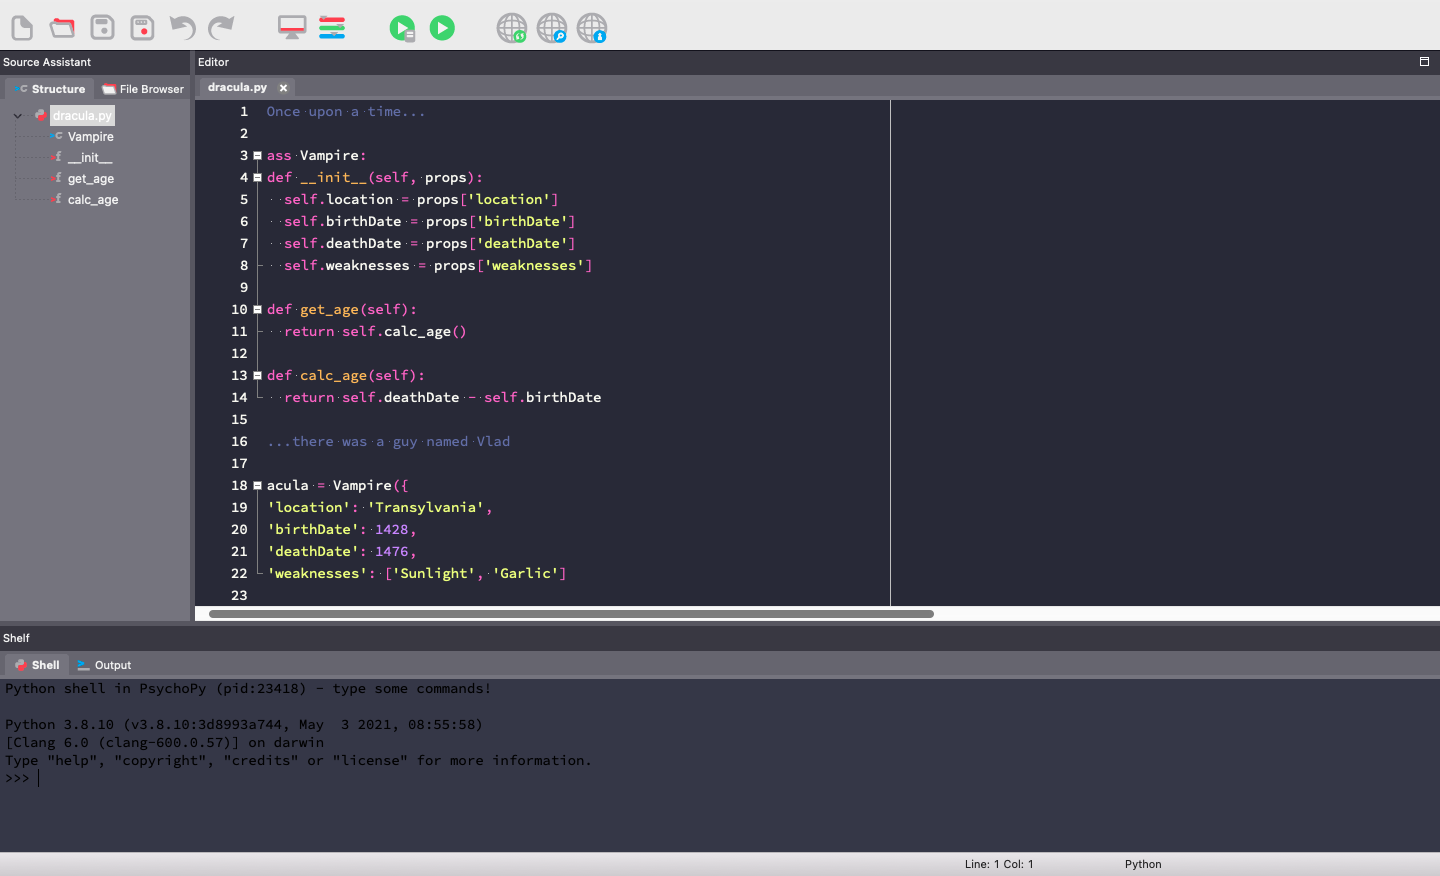
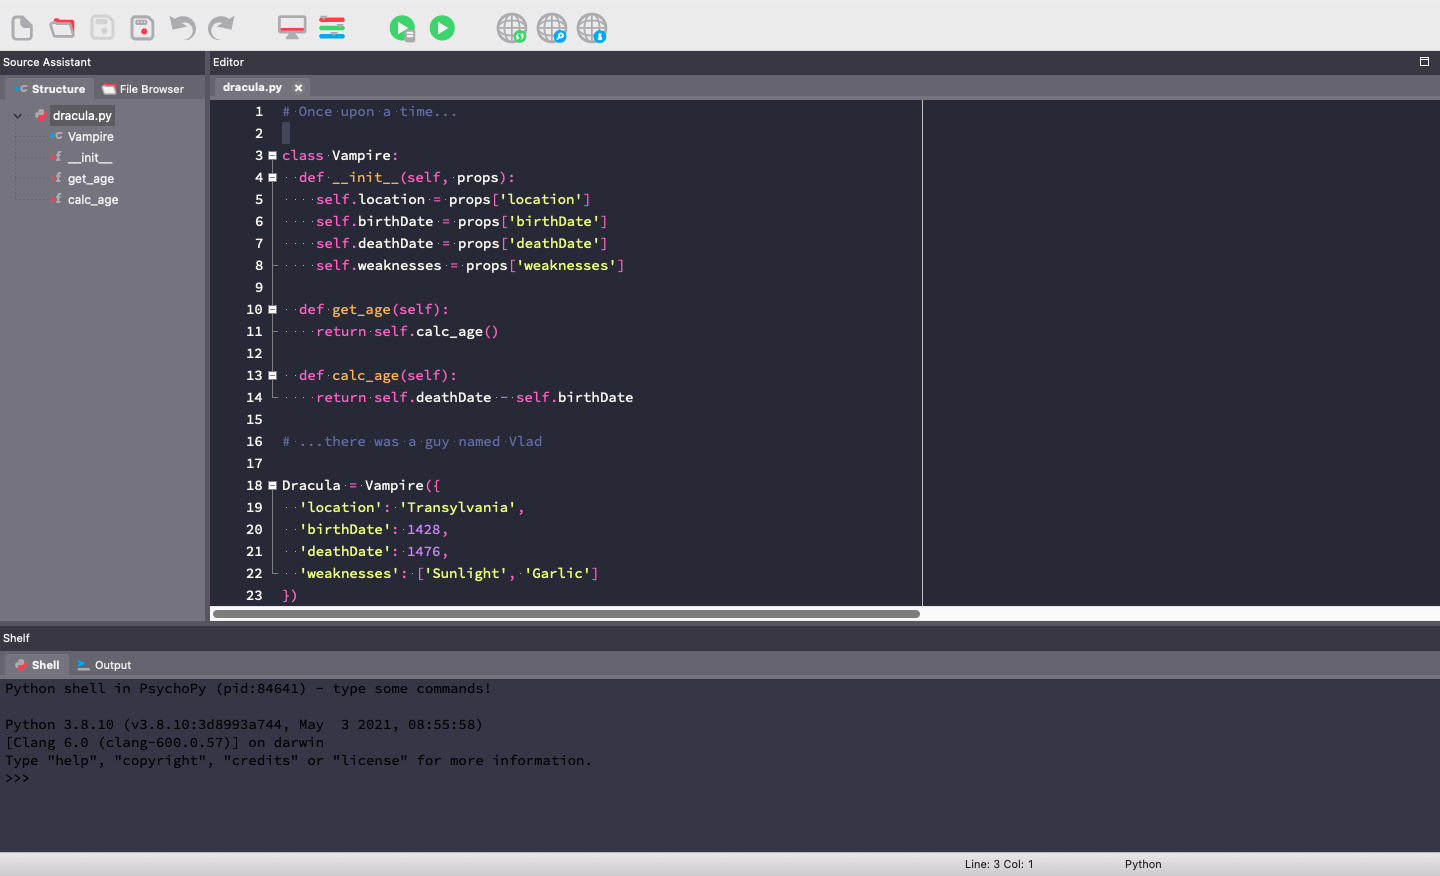
update

diff --git a/dracula.py b/dracula.py
@@ -1,0 +1,23 @@
+# Once upon a time...
+
+class Vampire:
+  def __init__(self, props):
+    self.location = props['location']
+    self.birthDate = props['birthDate']
+    self.deathDate = props['deathDate']
+    self.weaknesses = props['weaknesses']
+
+  def get_age(self):
+    return self.calc_age()
+
+  def calc_age(self):
+    return self.deathDate - self.birthDate
+
+# ...there was a guy named Vlad
+
+Dracula = Vampire({
+  'location': 'Transylvania',
+  'birthDate': 1428,
+  'deathDate': 1476,
+  'weaknesses': ['Sunlight', 'Garlic']
+})

diff --git a/INSTALL.md b/INSTALL.md
@@ -1,17 +1,17 @@
-### [Foobar](https://foobar.com)
+### [PsychoPy](https://github.com/psychopy/psychopy)
 
 #### Install using Git
 
 If you are a git user, you can install the theme and keep up to date by cloning the repo:
 
-    git clone https://github.com/dracula/foobar.git
+    git clone https://github.com/dracula/psychopy.git
 
 #### Install manually
 
-Download using the [GitHub .zip download](https://github.com/dracula/foobar/archive/master.zip) option and unzip them.
+Download using the [GitHub .zip download](https://github.com/dracula/psychopy/archive/master.zip) option and unzip them.
 
 #### Activating theme
 
-1. Do this
-2. Then that
-3. Boom! It's working
+1. `- cp ~/psychopy/dracula.json ~/.psychopy3/themes`
+
+2. activate under Preferences > Application > theme > dracula : OK 
